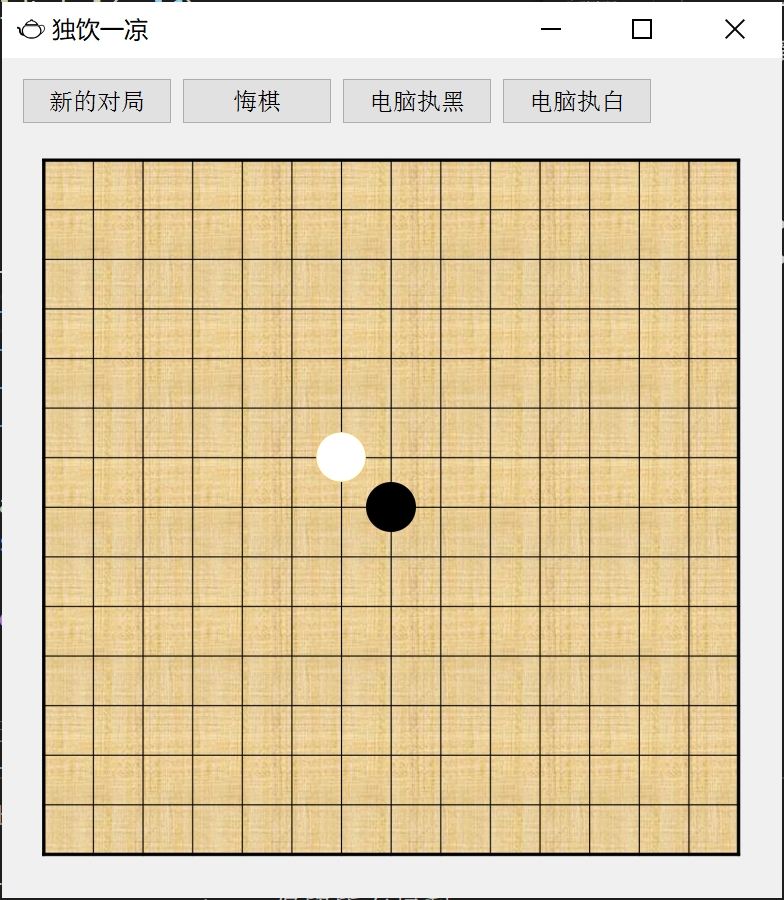
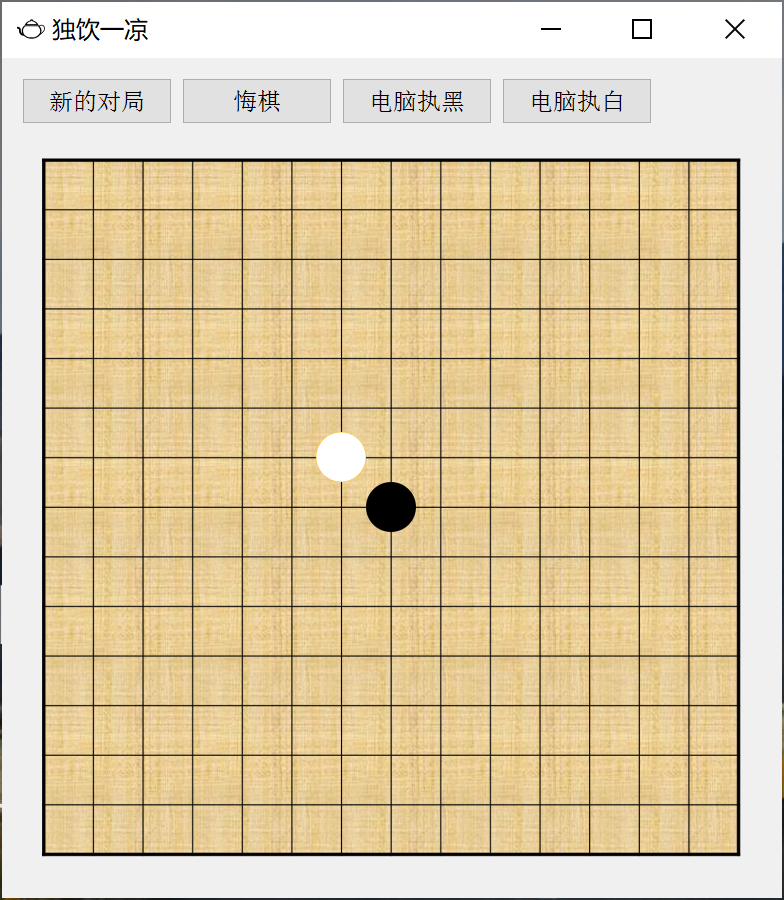
更改boardshow图片，删除playgame类，修改README文件名

diff --git a/readme.md b/readme.md
@@ -1,0 +1,14 @@
+![](https://img.shields.io/badge/build-passing-brightgreen)
+![](https://img.shields.io/badge/version-0.0.1-green)
+![](https://img.shields.io/badge/lang-python-blue)
+
+
+# 五子棋
+---
+一个简易的五子棋界面和引擎的实现，搜索算法为alpha-beta剪枝算法
+
+![](./picture/boardshow.png)
+
+# To Do list
++ 极大极小搜索 
++ ab算法
